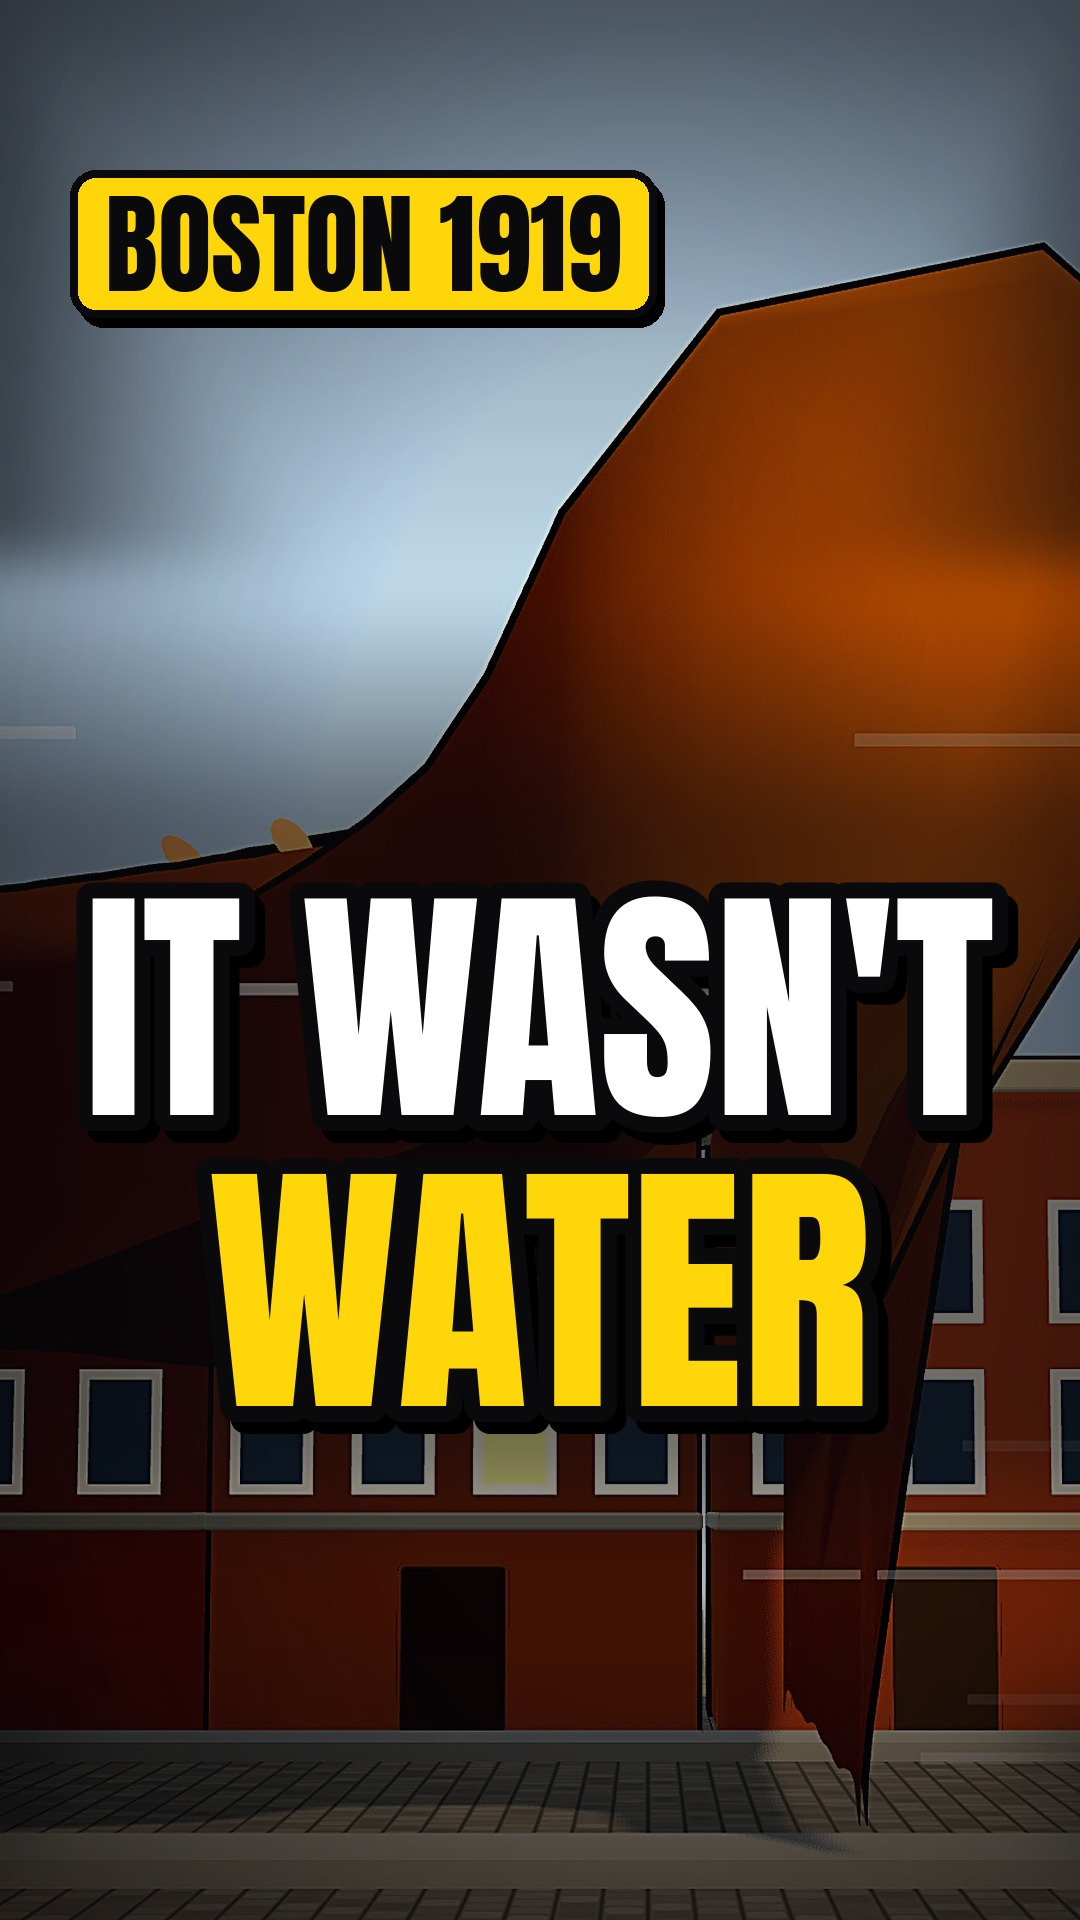
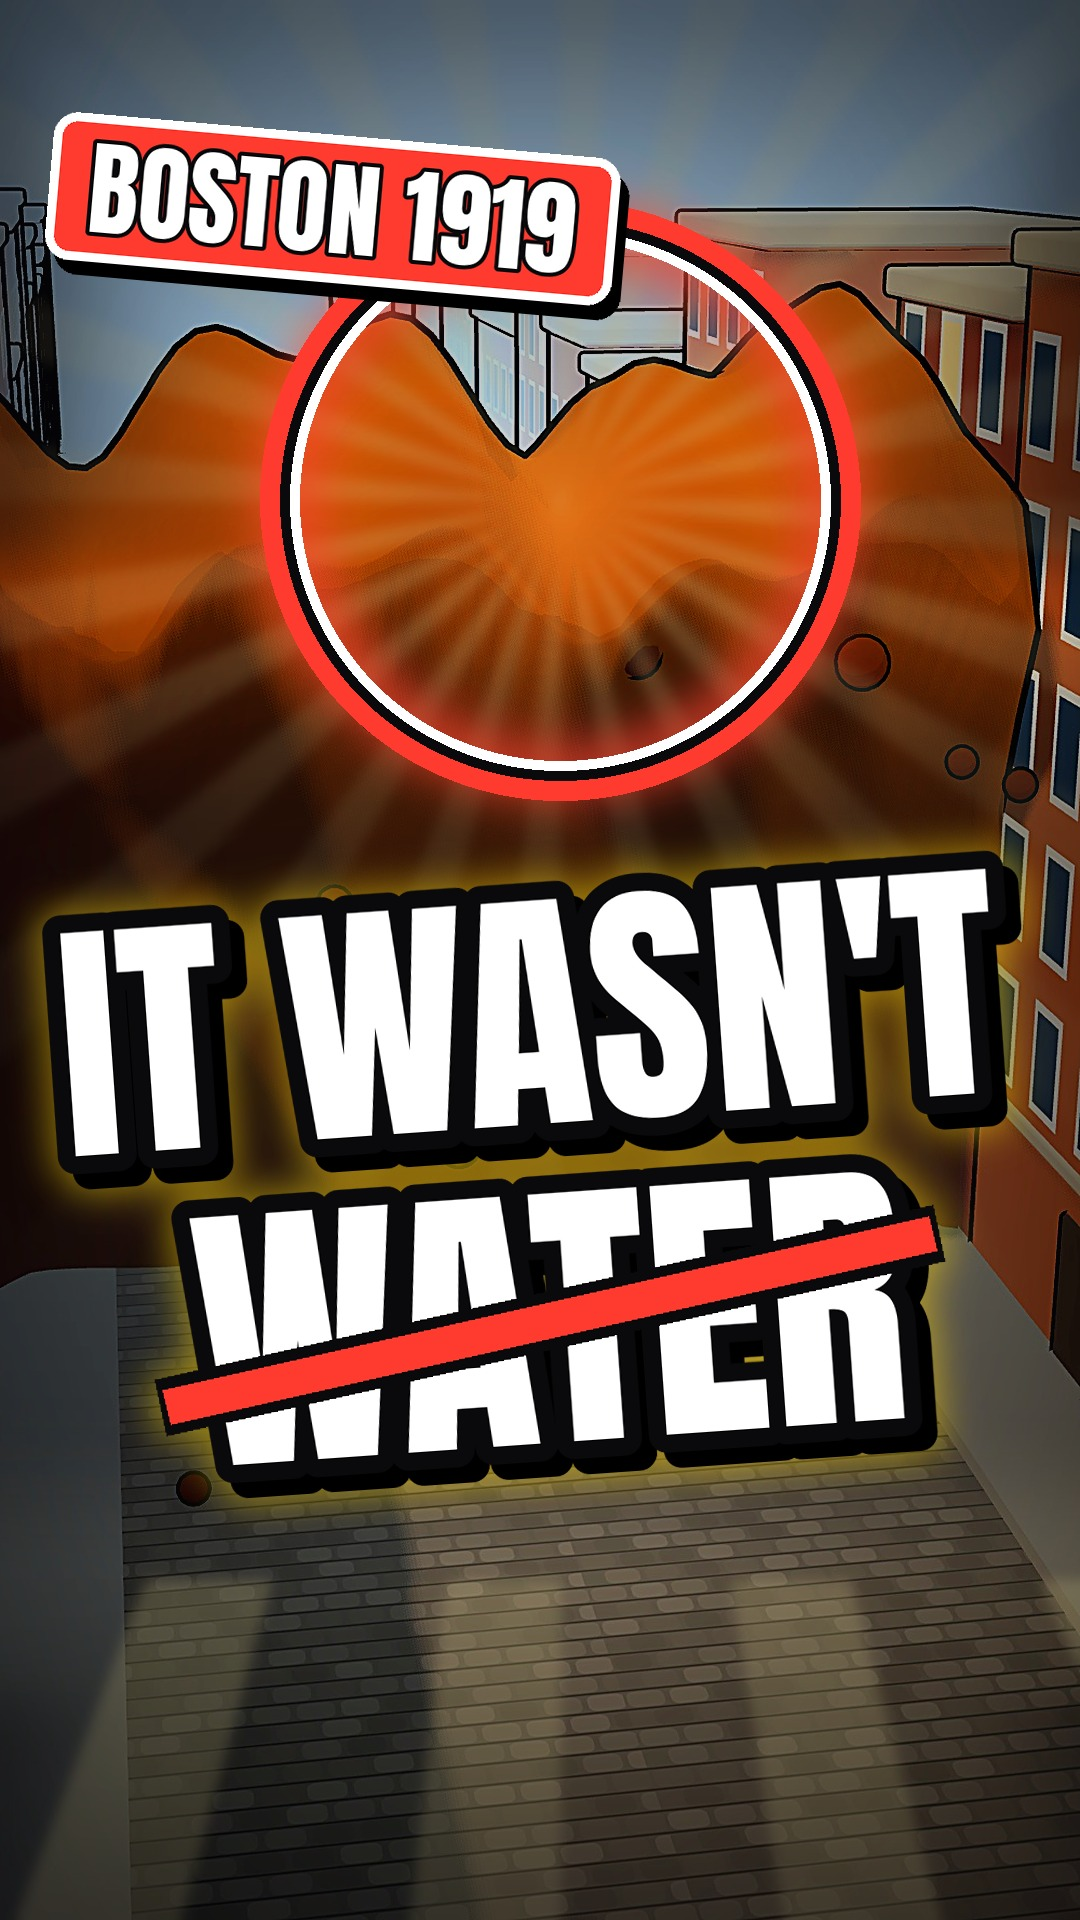
Hyper-clickbait thumbnails: rays, tilted glowing text, strike/box lines, glowing red circle, red sticker badge; QUALITY §5b rules; new xr004 thumbnail
Claude-Session: https://claude.ai/code/session_01DZas5rn9oHfQr4wDCAHtAY

diff --git a/tools/thumbnail.py b/tools/thumbnail.py
@@ -4,8 +4,11 @@ Usage: python tools/thumbnail.py <video-id>
 Reads videos/<id>/meta.json -> "thumbnail":
   {
     "time": 1.5,                         # second of the video to use (rendered WITHOUT titles/captions)
-    "lines": ["IT WASN'T", "WATER"],     # 1-3 short lines, 2-5 words total, ALL CAPS
-    "colors": ["#FFFFFF", "#FFD60A"],    # one per line (white / yellow / red #FF3B30 / green #4DFF88)
+    "lines": ["IT WASN'T", {"text": "WATER", "strike": true}],  # 1-3 short lines, 2-5 words, ALL CAPS.
+                                         # A line can be a dict: text, color, box (bg colour), strike (red slash)
+    "colors": ["#FFFFFF", "#FFD60A"],    # default colour per line (white / yellow / red #FF3B30 / green #4DFF88)
+    "tilt": -4,                          # degrees for the text block (hype look); 0 = straight
+    "rays": [760, 520],                  # optional burst of light rays from this point (final px)
     "focus": [0.5, 0.45],                # crop centre (0-1) when zooming
     "zoom": 1.12,                        # 1.0-1.5
     "text_y": 210,                       # top of the text block (px); keep it in the upper half
@@ -39,8 +42,18 @@ cw, ch = W / z, H / z
 x0 = min(max(fx * W - cw / 2, 0), W - cw); y0 = min(max(fy * H - ch / 2, 0), H - ch)
 img = img.crop((int(x0), int(y0), int(x0 + cw), int(y0 + ch))).resize((W, H), Image.LANCZOS)
 # punchier grade
-img = ImageEnhance.Contrast(img).enhance(1.18)
-img = ImageEnhance.Color(img).enhance(1.32)
+img = ImageEnhance.Contrast(img).enhance(float(th.get("contrast", 1.28)))
+img = ImageEnhance.Color(img).enhance(float(th.get("saturation", 1.5)))
+img = ImageEnhance.Brightness(img).enhance(1.04)
+if th.get("rays"):   # burst of light from the key object: the classic "look here" thumbnail energy
+    import math
+    rx, ry = th["rays"]; ray = Image.new("L", (W, H), 0); rd = ImageDraw.Draw(ray)
+    for k in range(24):
+        a0 = k * 2 * math.pi / 24; a1 = a0 + math.pi / 30
+        rd.polygon([(rx, ry), (rx + 2600 * math.cos(a0), ry + 2600 * math.sin(a0)), (rx + 2600 * math.cos(a1), ry + 2600 * math.sin(a1))], fill=70)
+    fade = Image.radial_gradient("L").resize((W * 2, W * 2)).crop((W - rx, W - ry, W - rx + W, W - ry + H))
+    ray = Image.composite(Image.new("L", (W, H), 0), ray, fade.point(lambda v: min(255, int(v * 1.6))))
+    img = Image.composite(Image.new("RGB", (W, H), (255, 236, 160)), img, ray.filter(ImageFilter.GaussianBlur(6)))
 img = img.filter(ImageFilter.UnsharpMask(radius=2, percent=90, threshold=2))
 # vignette + dark band behind the text
 shade = Image.new("L", (W, H), 0); d = ImageDraw.Draw(shade)
@@ -58,7 +71,9 @@ draw = ImageDraw.Draw(img)
 RED = (255, 59, 48)
 if th.get("circle"):
     cx, cy, r = th["circle"]
-    for wdt, col in ((34, (10, 10, 12)), (20, RED)):
+    glow = Image.new("L", (W, H), 0); ImageDraw.Draw(glow).ellipse([cx - r, cy - r, cx + r, cy + r], outline=255, width=60)
+    img.paste((255, 70, 50), (0, 0), glow.filter(ImageFilter.GaussianBlur(22)).point(lambda v: int(v * 0.7))); draw = ImageDraw.Draw(img)
+    for wdt, col in ((40, (255, 255, 255)), (30, (10, 10, 12)), (20, RED)):
         draw.ellipse([cx - r, cy - r, cx + r, cy + r], outline=col, width=wdt)
 if th.get("arrow"):
     (ax, ay), (bx, by) = th["arrow"]
@@ -72,30 +87,46 @@ if th.get("arrow"):
     draw.polygon(inner, fill=RED)
 
 # text: each line fitted to the 960 px safe width, Anton, thick stroke + shadow
-lines = [s.upper() for s in th["lines"]][:3]
-colors = th.get("colors") or ["#FFFFFF"] * len(lines)
+specs = [l if isinstance(l, dict) else {"text": l} for l in th["lines"]][:3]
+colors = th.get("colors") or ["#FFFFFF"] * len(specs)
+layer = Image.new("RGBA", (W, H), (0, 0, 0, 0)); ld = ImageDraw.Draw(layer)
 y = text_y
-for i, line in enumerate(lines):
-    size = 330 if len(lines) == 1 else 270
+for i, sp in enumerate(specs):
+    line = str(sp["text"]).upper(); col = sp.get("color", colors[i % len(colors)])
+    size = 360 if len(specs) == 1 else 290
     while True:
         f = ImageFont.truetype(FONT, size)
-        bb = draw.textbbox((0, 0), line, font=f, stroke_width=16)
-        if bb[2] - bb[0] <= 960 or size <= 90: break
+        bb = ld.textbbox((0, 0), line, font=f, stroke_width=18)
+        if bb[2] - bb[0] <= (900 if sp.get("box") else 980) or size <= 90: break
         size -= 6
     wpx, hpx = bb[2] - bb[0], bb[3] - bb[1]
     x = (W - wpx) // 2 - bb[0]
-    draw.text((x + 10, y + 12 - bb[1]), line, font=f, fill=(0, 0, 0), stroke_width=16, stroke_fill=(0, 0, 0))
-    draw.text((x, y - bb[1]), line, font=f, fill=colors[i % len(colors)], stroke_width=16, stroke_fill=(10, 10, 12))
-    y += hpx + 24
+    if sp.get("box"):
+        ld.rounded_rectangle([x + bb[0] - 34, y - 22, x + bb[2] + 34, y + hpx + 22], 28, fill=sp["box"], outline=(10, 10, 12, 255), width=12)
+    ld.text((x + 14, y + 16 - bb[1]), line, font=f, fill=(0, 0, 0, 255), stroke_width=18, stroke_fill=(0, 0, 0, 255))
+    ld.text((x, y - bb[1]), line, font=f, fill=col, stroke_width=18, stroke_fill=(10, 10, 12, 255))
+    if sp.get("strike"):
+        ld.line([(x + bb[0] - 20, y + hpx * 0.72), (x + bb[2] + 20, y + hpx * 0.30)], fill=(10, 10, 12, 255), width=58)
+        ld.line([(x + bb[0] - 14, y + hpx * 0.72), (x + bb[2] + 14, y + hpx * 0.30)], fill=RED + (255,), width=36)
+    y += hpx + (70 if sp.get("box") else 30)
 if y > H * 0.78:
     sys.exit(f"text block reaches {y}px: the bottom 22 % is covered by YouTube's title; move it up or shorten it")
+tilt = float(th.get("tilt", -4))
+if tilt:
+    layer = layer.rotate(-tilt, resample=Image.BICUBIC, center=(W // 2, text_y + (y - text_y) // 2))
+glowmask = layer.split()[3].filter(ImageFilter.MaxFilter(9)).filter(ImageFilter.GaussianBlur(18)).point(lambda v: int(v * 0.55))
+img.paste(tuple(int(th.get("glow", "#FFD60A").lstrip("#")[k:k + 2], 16) for k in (0, 2, 4)), (0, 0), glowmask)
+img.paste(layer, (0, 0), layer); draw = ImageDraw.Draw(img)
 if th.get("badge"):
-    f = ImageFont.truetype(FONT, 110); t = str(th["badge"]).upper()
-    bb = draw.textbbox((0, 0), t, font=f); bw, bh = bb[2] - bb[0] + 70, bb[3] - bb[1] + 50
-    bx = 70; by = int(th.get("badge_y", 170 if text_y > 800 else int(H * 0.70) - bh))
-    draw.rounded_rectangle([bx + 8, by + 10, bx + bw + 8, by + bh + 10], 26, fill=(0, 0, 0))
-    draw.rounded_rectangle([bx, by, bx + bw, by + bh], 26, fill=(255, 214, 10), outline=(10, 10, 12), width=8)
-    draw.text((bx + 35 - bb[0], by + 25 - bb[1]), t, font=f, fill=(10, 10, 12))
+    f = ImageFont.truetype(FONT, 104); t = str(th["badge"]).upper()
+    bb = draw.textbbox((0, 0), t, font=f); bw, bh = bb[2] - bb[0] + 80, bb[3] - bb[1] + 56
+    tag = Image.new("RGBA", (bw + 30, bh + 30), (0, 0, 0, 0)); td = ImageDraw.Draw(tag)
+    td.rounded_rectangle([10, 14, bw + 10, bh + 14], 24, fill=(0, 0, 0, 255))
+    td.rounded_rectangle([0, 0, bw, bh], 24, fill=th.get("badge_color", "#FF3B30"), outline=(255, 255, 255, 255), width=9)
+    td.text((40 - bb[0], 28 - bb[1]), t, font=f, fill=(255, 255, 255, 255), stroke_width=4, stroke_fill=(10, 10, 12, 255))
+    tag = tag.rotate(float(th.get("badge_tilt", 6)), resample=Image.BICUBIC, expand=True)
+    bx = int(th.get("badge_x", 60)); by = int(th.get("badge_y", 150 if text_y > 800 else int(H * 0.70) - bh))
+    img.paste(tag, (bx, by), tag); draw = ImageDraw.Draw(img)
 
 q = 92
 while True:

diff --git a/QUALITY.md b/QUALITY.md
@@ -42,14 +42,20 @@ Todo lo que se aprendió corrigiendo los videos 1 a 3. Un video no se publica si
 - Volumen final: −14 LUFS integrado, pico −1 dBTP (lo hace `mix.py`).
 - Efectos sincronizados con lo que pasa (golpe, burbujas, tic del reloj), nunca tapando una palabra clave.
 
-## 5b. Miniatura (obligatoria, define el clic)
-La hace `tools/thumbnail.py` con el bloque `"thumbnail"` de `meta.json` (ver el encabezado del script). Se revisa `out/<id>/thumb_preview.jpg`: la versión chica (tamaño del feed) tiene que leerse en un segundo.
-- **Un solo momento visual**, el más impactante del video (la ola, el tanque que revienta, el objeto imposible), grande y entendible sin contexto. Cuadro limpio, sin subtítulos (`render.py clean`).
-- **Texto de 2 a 5 palabras, en mayúsculas, en 1 a 3 líneas**, que abra una pregunta que el video responde: contradicción ("IT WASN'T WATER"), número extremo ("7 MINUTES. NO AIR."), consecuencia ("HE KEPT DANCING"), pregunta ("WHO STOLE IT?"). No repetir el título palabra por palabra.
-- Una palabra clave en amarillo `#FFD60A` o rojo `#FF3B30`, el resto en blanco. Como mucho un recurso extra: círculo rojo, flecha roja o etiqueta (fecha, lugar, cifra).
-- **Clickbait honesto**: todo lo que promete la miniatura pasa en el video y es verdad. Nada de sangre, cuerpos ni heridas; nada de logos; nada de parecidos con personas reales. YouTube castiga las miniaturas engañosas y el público también (retención).
-- Nada importante en el 22 % de abajo (ahí YouTube pone el título) ni pegado a los bordes.
-- Variar entre videos: posición del texto (arriba o abajo), color de acento, recurso extra y encuadre. No usar la misma plantilla dos días seguidos.
+## 5b. Miniatura HYPER CLICKBAIT (obligatoria, define el clic)
+La hace `tools/thumbnail.py` con el bloque `"thumbnail"` de `meta.json` (ver el encabezado del script). Objetivo: que nadie pueda pasarla sin tocar. Se revisa `out/<id>/thumb_preview.jpg`: la versión chica (tamaño del feed) tiene que leerse y dar ganas de tocar en medio segundo.
+- **El momento más extremo del video, enorme**: la ola, el tanque que revienta, el objeto imposible. Zoom 1.05–1.3 sobre la acción, cuadro limpio (`render.py clean`).
+- **Siempre los 3 ganchos visuales**: (1) círculo rojo `circle` sobre la cosa clave, (2) rayos de luz `rays` saliendo de ese mismo punto, (3) sello `badge` rojo inclinado con fecha, lugar o cifra ("BOSTON 1919", "7 MIN", "$1,000,000"). Flecha roja `arrow` solo si el círculo no alcanza.
+- **Texto de 2 a 4 palabras, gigante, inclinado (`tilt` −3 a −6), con brillo**, que haga explotar la curiosidad. Fórmulas que funcionan, rotando:
+  - contradicción con tachado: "IT WASN'T / ~~WATER~~" (`strike: true`);
+  - número brutal en caja roja: `{"text": "7 MINUTES", "box": "#FF3B30"}` + "NO AIR";
+  - consecuencia increíble: "HE KEPT / DANCING";
+  - pregunta directa: "WHO STOLE / HIS BODY?";
+  - "THEY / HID THIS" solo si en el video realmente hay algo oculto que se revela.
+- Una palabra o caja en amarillo `#FFD60A` o rojo `#FF3B30`, el resto en blanco con borde negro grueso.
+- **Clickbait honesto, sin excepción**: todo lo que promete la miniatura pasa en el video y es verdad. Nada de sangre, cuerpos ni heridas; nada de logos; nada de parecidos con personas reales. Una miniatura que engaña hace que la gente se vaya a los 2 segundos y YouTube deja de mostrar el video.
+- Nada importante en el 22 % de abajo (el script lo controla) ni pegado a los bordes.
+- **Probar al menos 3 variantes** (cuadro, texto, posición) y quedarse con la que más se lee en la vista chica. Variar entre días: color del brillo, lado del sello, texto arriba o abajo, tachado / caja / pregunta.
 - `handoff.py` exige `thumb.jpg` de 1080×1920, < 2 MB y hecho con `thumbnail.py`.
 
 ## 6. Revisión final (obligatoria)
